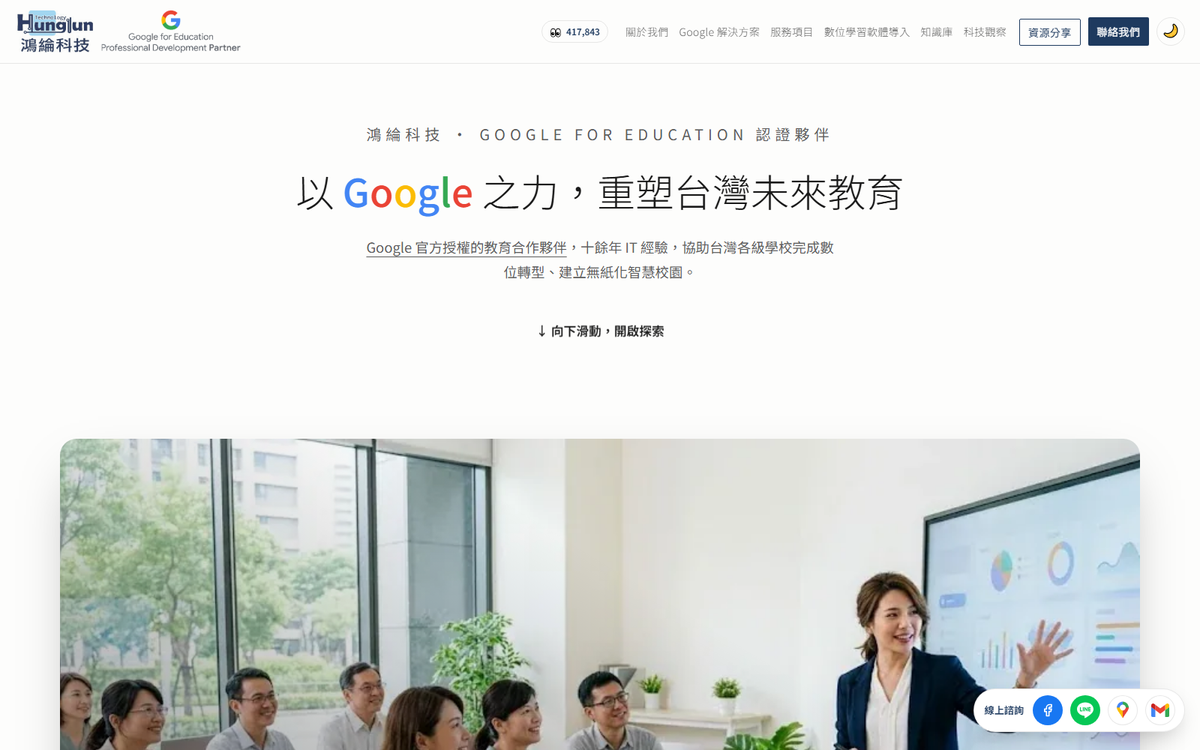
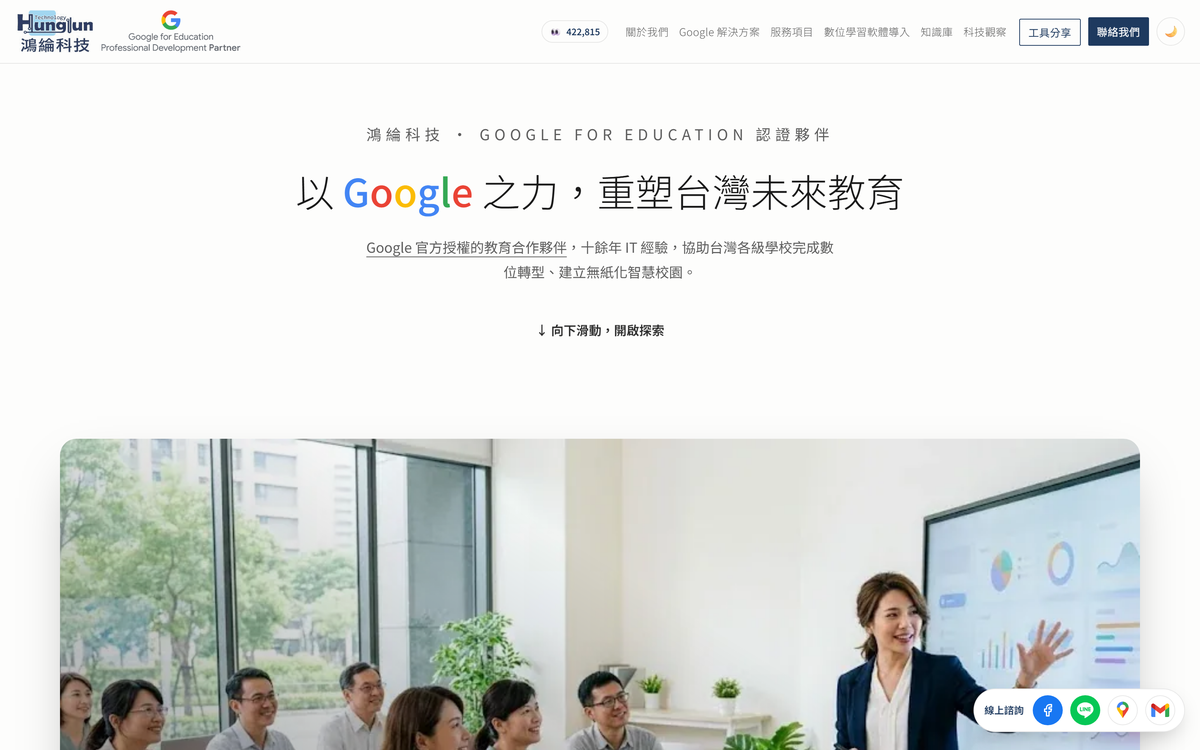
fix: 更新鴻綸科技案例展示圖（原截圖已過期，導覽列文字與訪客數與線上不符）
Claude-Session: https://claude.ai/code/session_0164LDUYhpLE3TW1tMPNBV61

diff --git a/assets/style.css b/assets/style.css
@@ -60,11 +60,12 @@
   --radius-lg: 10px;          /* 小元件：按鈕、標籤、導覽鈕 */
 
   /* 垂直節奏：非對稱（上緊下鬆），整體放鬆／收緊改這裡 */
-  --sp-hero-top: 112px;
-  --sp-hero-bottom: 140px;
-  --sp-section: 120px;
-  --sp-head-top: 64px;
-  --sp-head-bottom: 52px;
+  /* 2026-08-31：Steve 反映全站空白太多，桌機版整體收緊約 30% */
+  --sp-hero-top: 80px;
+  --sp-hero-bottom: 96px;
+  --sp-section: 84px;
+  --sp-head-top: 48px;
+  --sp-head-bottom: 36px;
 }
 
 /* ---------- Tokens：深色（夜刊模式，不是純黑） ---------- */
@@ -386,7 +387,7 @@ h1, h2, h3, h4 { line-height: 1.4; font-weight: 700; color: var(--ink); }
 .section-deep p { color: var(--on-deep-muted); }
 .section-deep a { color: var(--gold-pure); }
 
-.section-head { margin-bottom: 48px; max-width: 42em; }
+.section-head { margin-bottom: 36px; max-width: 42em; }
 .section-head.right { margin-left: auto; text-align: right; }
 .section-head.right .eyebrow { text-align: right; }
 .section-title {
@@ -660,7 +661,7 @@ table.price-table { width: 100%; border-collapse: collapse; min-width: 640px; fo
 }
 
 /* ---------- 案例（portfolio 頁）：檔案夾式展覽卡 ---------- */
-.case { display: grid; gap: 34px; grid-template-columns: 1fr; margin-bottom: 72px; }
+.case { display: grid; gap: 34px; grid-template-columns: 1fr; margin-bottom: 52px; }
 @media (min-width: 900px) { .case { grid-template-columns: 1.05fr 1fr; align-items: center; } .case.flip .case-media { order: 2; } }
 .case-media {
   border: 1px solid var(--line-strong);
@@ -1146,7 +1147,7 @@ label.check {
 
 /* ---------- RWD ---------- */
 @media (max-width: 980px) {
-  :root { --sp-hero-top: 64px; --sp-hero-bottom: 80px; --sp-section: 68px; }
+  :root { --sp-hero-top: 48px; --sp-hero-bottom: 60px; --sp-section: 52px; }
   .nav-toggle { display: flex; }
   .main-nav {
     display: none;

diff --git a/assets/tech.css b/assets/tech.css
@@ -18,8 +18,8 @@
 /* ---------- Hero：深色開場 ---------- */
 .hero {
   background: var(--hero-bg);
-  padding-top: 148px;                 /* 讓出疊上去的 header */
-  padding-bottom: 72px;
+  padding-top: 116px;                 /* 讓出疊上去的 header */
+  padding-bottom: 48px;
   /* hero 內部整組換成深底用色，子元素不必逐一改 */
   --ink: #eaf2fb;
   --text: #eaf2fb;
@@ -181,7 +181,7 @@ body.home-hero .site-header .main-nav.open > a { color: var(--text); }
 
 /* ---------- 手機 ---------- */
 @media (max-width: 980px) {
-  .hero { padding-top: 116px; padding-bottom: 56px; }
+  .hero { padding-top: 96px; padding-bottom: 40px; }
   /* 窄螢幕沒有右欄要讓，波形不必左側淡出，否則幾乎看不到 */
   #tonWave { -webkit-mask-image: none; mask-image: none; opacity: 0.7; }
   .work-stage { padding-top: 40px; }
